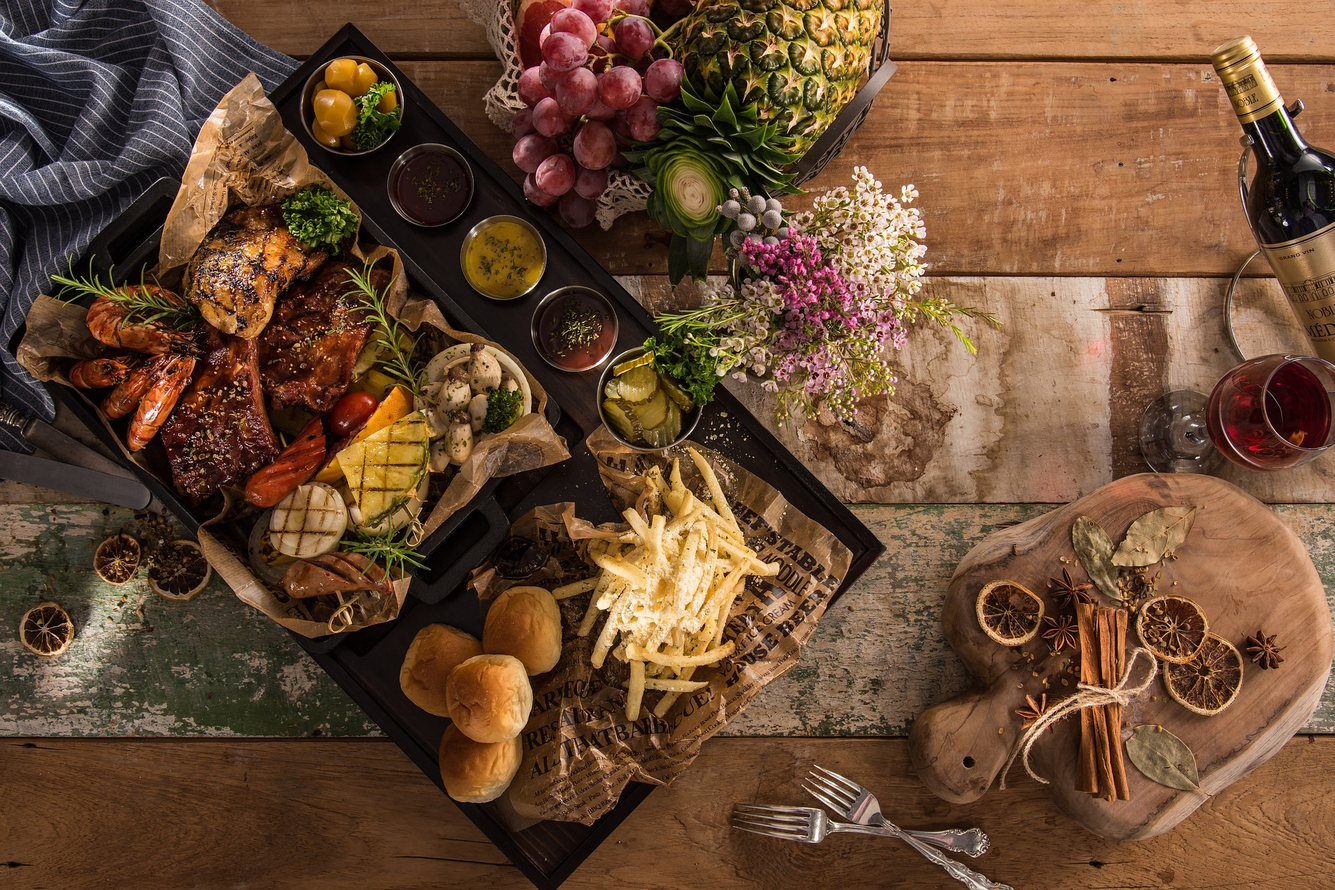
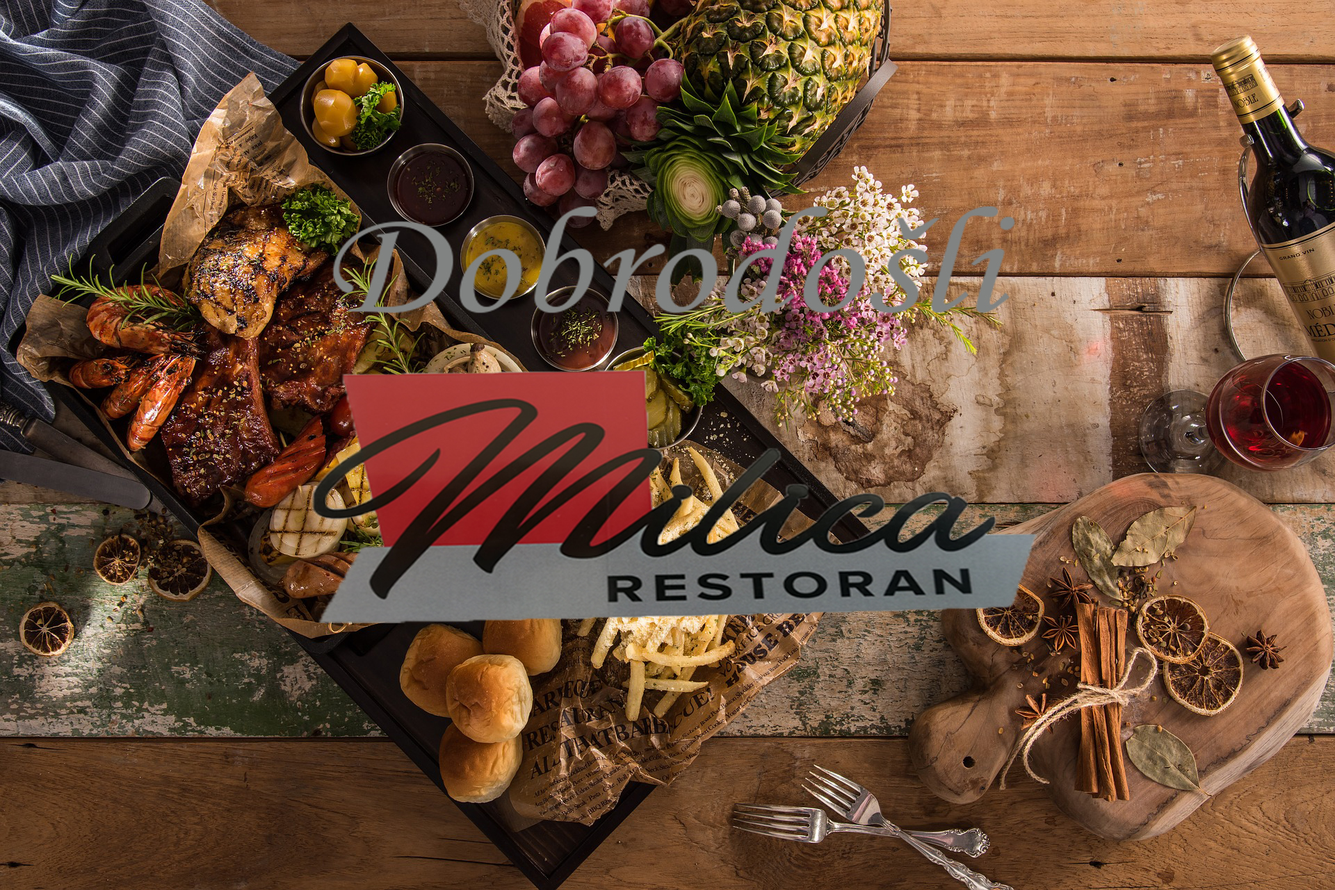
promene

diff --git a/index.html b/index.html
@@ -57,17 +57,8 @@
 	<div id="fh5co-container">
 		<div id="fh5co-home" class="js-fullheight" data-section="home">
 
-			<div class="flexslider">
-				
-				<div class="fh5co-overlay"></div>
-				<div class="fh5co-text">
-					<div class="container">
-						<div class="row">
-							<img src="images/milica1.png">
-						</div>
-					</div>
-				</div>
-			  	<ul class="slides">
+			<div class="flexslider">				
+				<ul class="slides">
 			   	<li style="background-image: url(images/slide_1.jpg);" data-stellar-background-ratio="0.5"></li>
 			   	<li style="background-image: url(images/slide_2.jpg);" data-stellar-background-ratio="0.5"></li>
 			   	<li style="background-image: url(images/slide_3.jpg);" data-stellar-background-ratio="0.5"></li>
